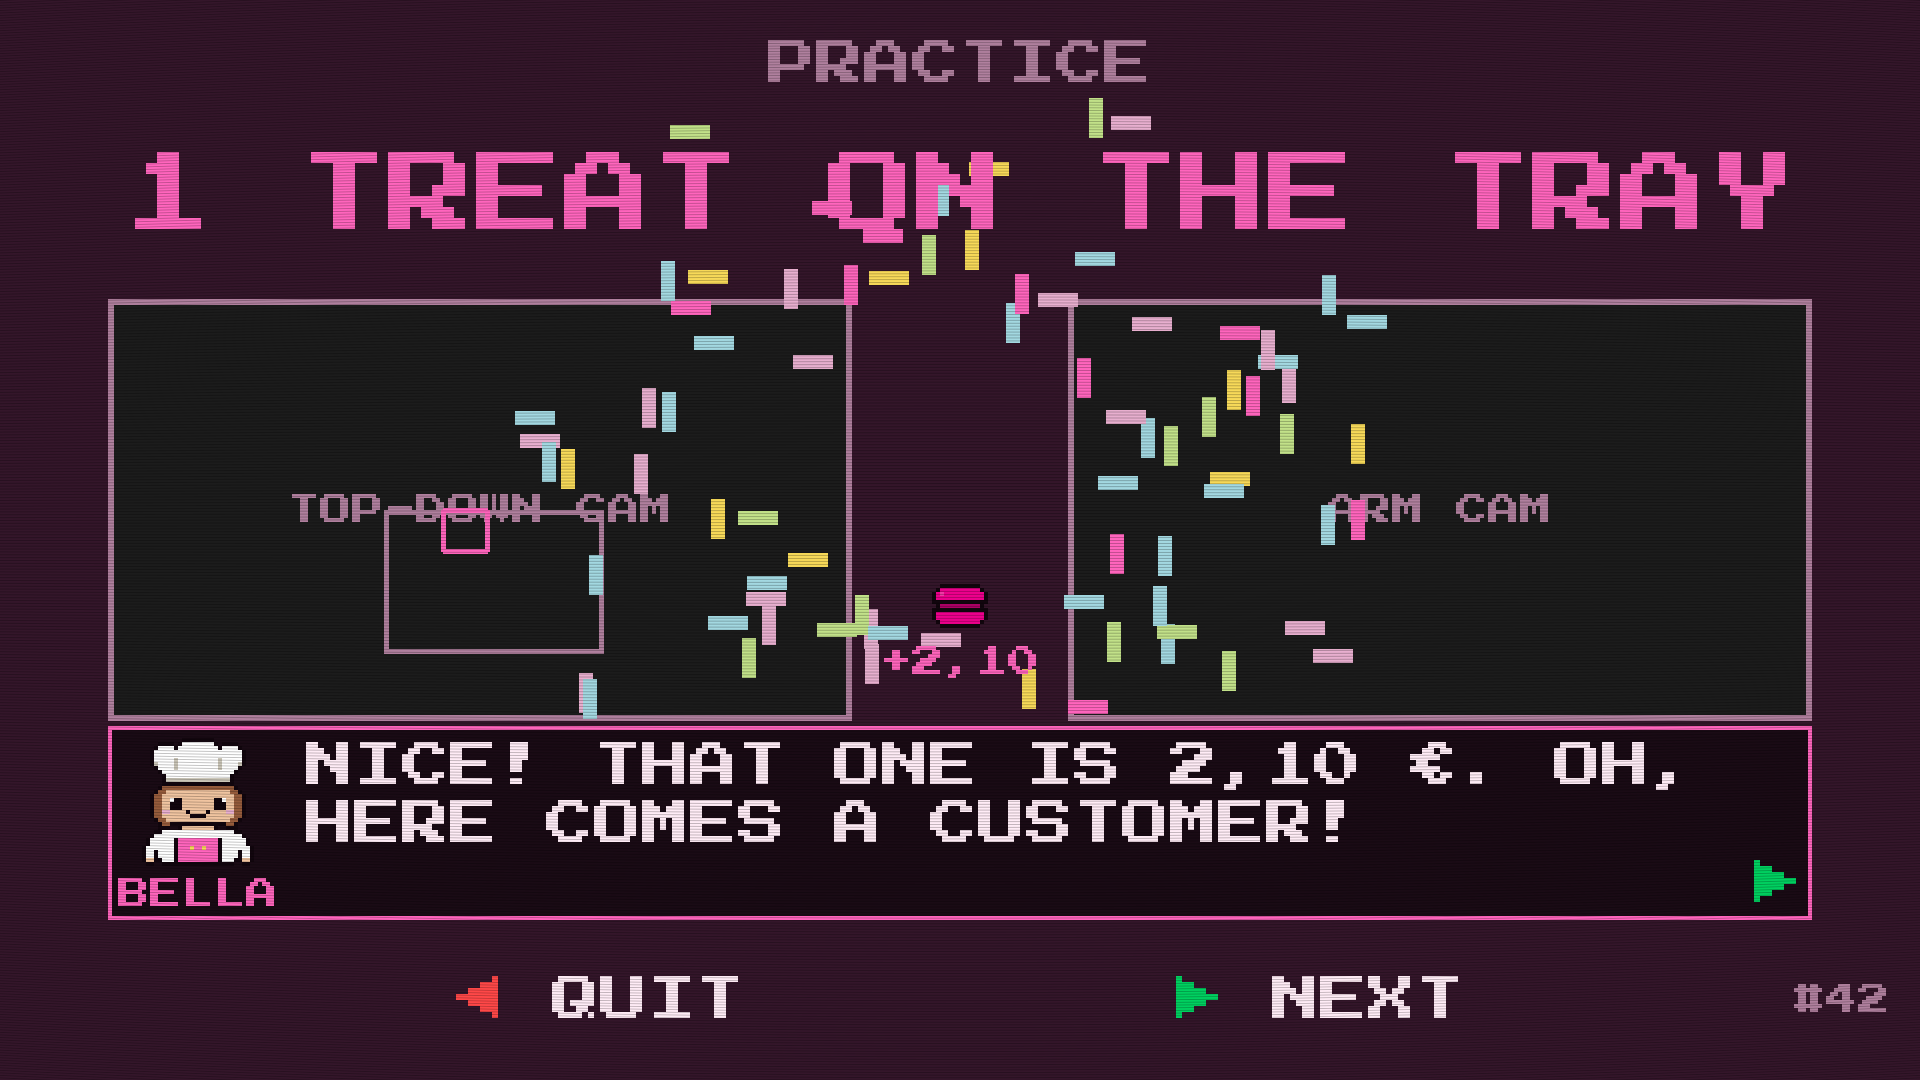
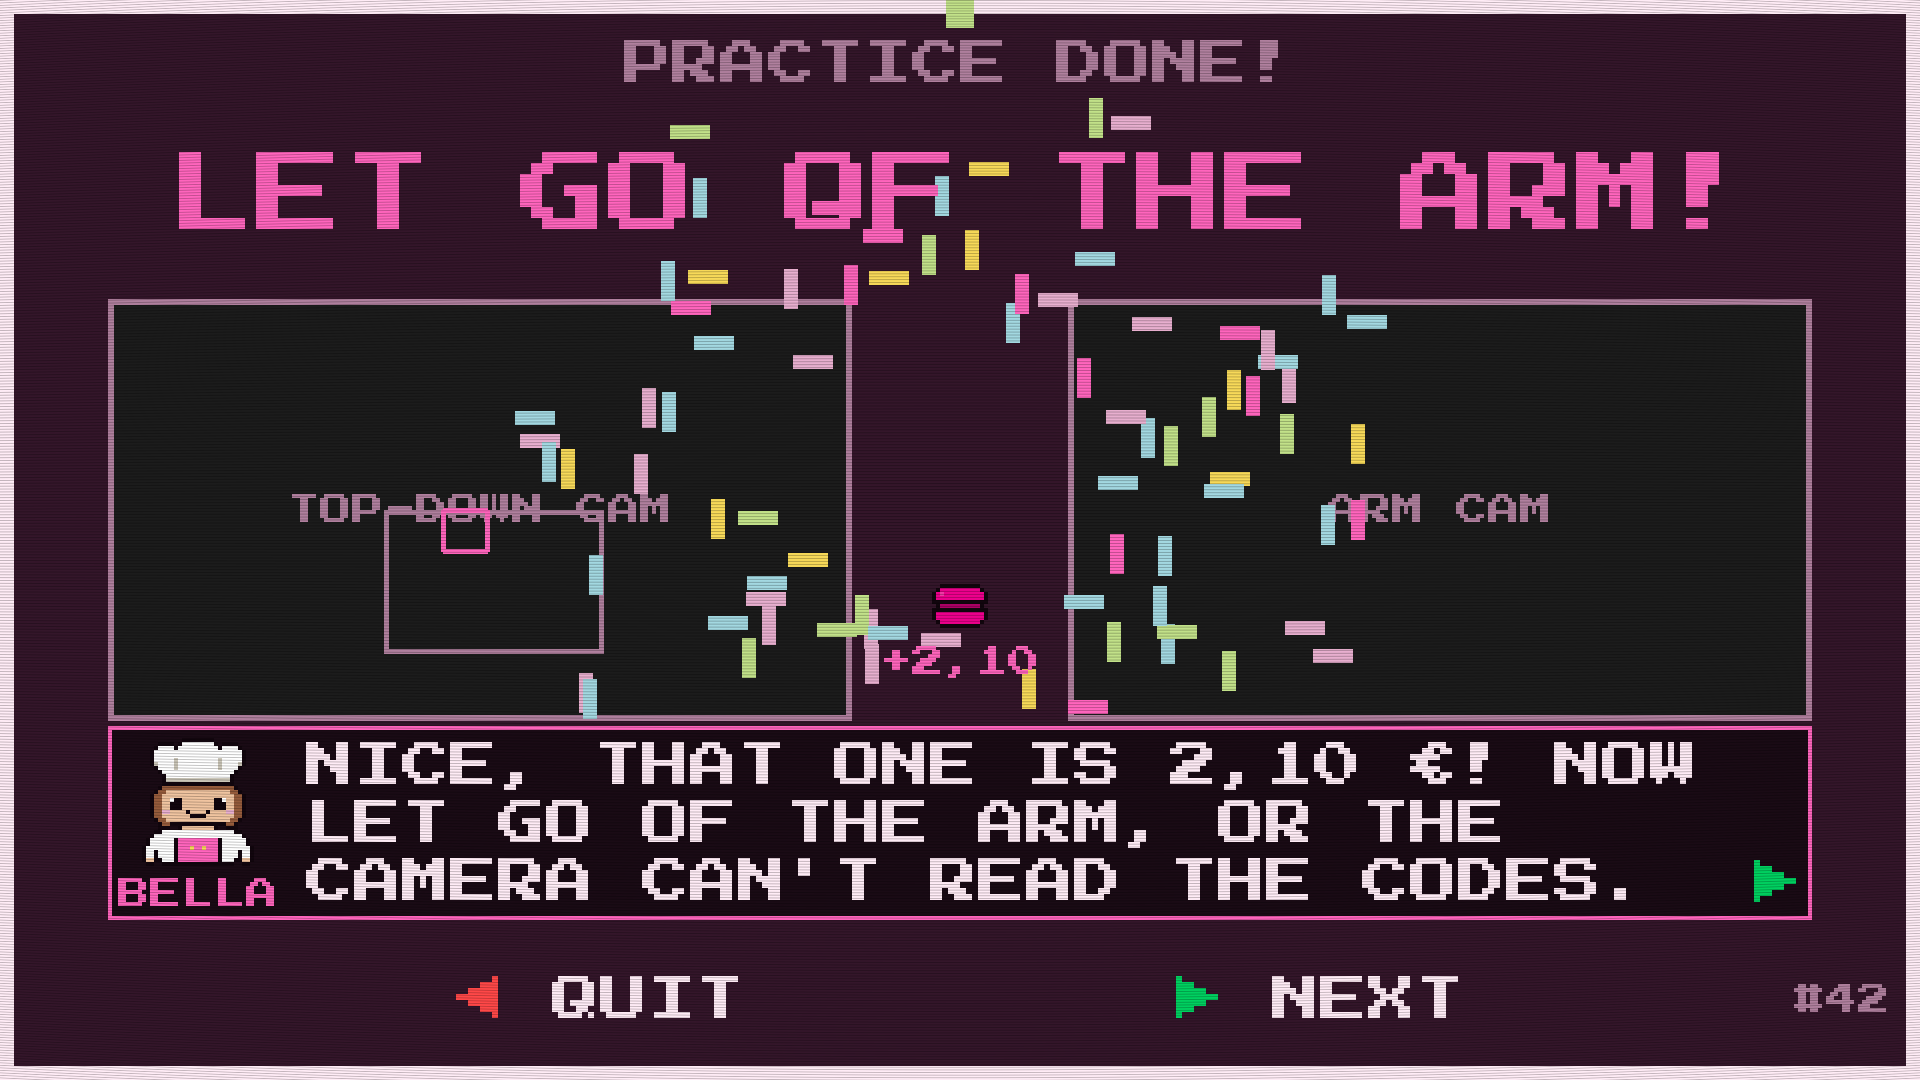
feat: practice says grab the arm, let go, and why -- the end burns down visibly
Floor feedback 29.9.: people didn't take the arm in practice, didn't let go
after it, and the next screen caught them by surprise.
- tutorial header GRAB THE ARM! / NIMM DEN ARM!, Bella names the arm
- practice end: PRACTICE DONE! / LET GO OF THE ARM! big, plus the reason
  (otherwise the camera can't read the codes), and a white fuse burns down
  until Oskar comes
- camera rule before practice says why, compressed

diff --git a/game/themes/sugar_rush.py b/game/themes/sugar_rush.py
@@ -67,13 +67,14 @@ TEXT = {
              "EVERY MOVE.|"
              "EVERY TREAT HAS ITS PRICE. THE BIGGER IT IS, THE MORE IT COSTS.",
         welcome="{name}, YOU'RE BACK! READY TO BEAT YOUR SCORE?",
-        practice="PRACTICE", tut_head="1 TREAT ON THE TRAY",
-        tut="PUT ANY TREAT ON THE TRAY, CODE UP. THEN MOVE THE ARM AWAY FROM THE CAMERA!",
+        practice="PRACTICE", tut_head="GRAB THE ARM!",
+        tut="GRAB THE ARM IN FRONT OF YOU AND PUT ANY TREAT ON THE TRAY, CODE UP!",
         up_next="UP NEXT: PRACTICE ROUND", just_practice="DOESN'T COUNT!",
         practice_n="PRACTICE: {n}",
-        tut_intro="IMPORTANT: THE ARM MUST NOT BLOCK THE CAMERA. MOVE IT AWAY AFTER YOU DROP A TREAT!",
-        tut_done="NICE! THAT ONE IS {price}. OH, HERE COMES A CUSTOMER!",
-        tut_fail="NO WORRIES, THAT WAS JUST PRACTICE! OH, HERE COMES A CUSTOMER!",
+        tut_intro="AFTER EVERY DROP: ARM AWAY FROM THE TRAY, OR THE CAMERA CAN'T READ THE CODES!",
+        tut_done="NICE, THAT ONE IS {price}! NOW LET GO OF THE ARM, OR THE CAMERA CAN'T READ THE CODES.",
+        tut_over="PRACTICE DONE!", let_go="LET GO OF THE ARM!",
+        tut_fail="NO WORRIES, THAT WAS JUST PRACTICE! LET GO OF THE ARM, A CUSTOMER IS COMING.",
         skip="▶ SKIP", skip_ok="▶ AGAIN TO SKIP", quit="◀ QUIT", quit_ok="◀ AGAIN TO QUIT",
         order_head="BUDGET", think="TIME TO PLAN: {n}",
         order="HI! IT'S MY BIRTHDAY. PICK ME TREATS THAT ADD UP TO EXACTLY {goal}!|"
@@ -105,15 +106,16 @@ TEXT = {
              "JEDE SÜßIGKEIT HAT IHREN PREIS. JE GRÖßER, DESTO TEURER.",
         welcome="SCHÖN, DASS DU WIEDER DA BIST, {name}! KNACKST DU DEINEN "
                 "REKORD?",
-        practice="PROBERUNDE", tut_head="1 SÜßIGKEIT AUFLEGEN",
-        tut="LEG EINE SÜßIGKEIT AUFS TABLETT, CODE NACH OBEN. DANN ARM "
-            "WEG VON DER KAMERA!",
+        practice="PROBERUNDE", tut_head="NIMM DEN ARM!",
+        tut="NIMM DEN ARM VOR DIR UND LEG EINE SÜßIGKEIT AUFS TABLETT, "
+            "CODE NACH OBEN!",
         up_next="GLEICH: PROBERUNDE", just_practice="ZÄHLT NICHT!",
         practice_n="PROBERUNDE: {n}",
-        tut_intro="WICHTIG: DER ARM DARF DIE KAMERA NICHT VERDECKEN. NACH "
-                  "DEM ABLEGEN ARM WEG!",
-        tut_done="SUPER! DIE KOSTET {price}. OH, DA KOMMT SCHON KUNDSCHAFT!",
-        tut_fail="KEIN PROBLEM, WAR JA NUR ZUM ÜBEN! OH, DA KOMMT SCHON KUNDSCHAFT!",
+        tut_intro="NACH JEDEM ABLEGEN: ARM WEG VOM TABLETT, SONST SIEHT DIE "
+                  "KAMERA DIE CODES NICHT!",
+        tut_done="SUPER, DIE KOSTET {price}! ARM LOSLASSEN, SONST SIEHT DIE KAMERA DIE CODES NICHT.",
+        tut_over="PROBERUNDE VORBEI!", let_go="ARM LOSLASSEN!",
+        tut_fail="KEIN PROBLEM, WAR NUR ZUM ÜBEN! ARM LOSLASSEN, GLEICH KOMMT KUNDSCHAFT.",
         skip="▶ ÜBERSPRINGEN", skip_ok="▶ NOCHMAL ZUM ÜBERSPRINGEN",
         quit="◀ ABBRECHEN",
         quit_ok="◀ NOCHMAL ZUM ABBRECHEN",

diff --git a/game/scenes.py b/game/scenes.py
@@ -1158,7 +1158,9 @@ class GameScene(SceneBase):
             label = self.t("practice_n", n=max(0, math.ceil(self.tut)))
             value, big = self.t("tut_head"), f["mid"]
         elif self.phase == "tut_done":
-            label, value, big = self.t("practice"), self.t("tut_head"), f["mid"]
+            # The practice is over and the hand has to leave the arm: said
+            # big, not only in the box (29.9., floor).
+            label, value, big = self.t("tut_over"), self.t("let_go"), f["mid"]
         elif self.phase in ("read", "order", "go"):
             label, value = self.t("order_head"), euro(self.target)
         elif self.hit > 0:
@@ -1185,6 +1187,10 @@ class GameScene(SceneBase):
         if self.phase == "tutorial":
             fuse(screen, max(0.0, self.tut / TUT_SECONDS) if TUT_SECONDS else 0.0,
                  ACCENT, self.clock)
+        if self.phase == "tut_done":
+            # Burns down until Oskar comes: the next screen is announced,
+            # not a surprise (29.9., floor). One page, so the page clock is it.
+            fuse(screen, 1 - min(1.0, self.dialog.wait / PAGE_SECONDS), WHITE, self.clock)
         if self.phase == "go":
             # The budget stays on top, the countdown takes the pane area:
             # the one thing to see before the arm starts to count.
@@ -1466,6 +1472,8 @@ if __name__ == "__main__":
         # lands -> tut_done, ▶ -> read, ▶ -> order (think), ▶ -> play.
         # tutorial has exactly one page: ▶ there means skip, not next page.
         assert "|" not in T["tut"]
+        # ... and so has the practice end: its fuse is the page clock
+        assert "|" not in T["tut_done"] + T["tut_fail"]
         _s.tray = {}
         g = GameScene(ctx, 999, "WWW")
         assert g.phase == "tut_intro"
@@ -1495,7 +1503,7 @@ if __name__ == "__main__":
             g.update(0.25)
         assert g.phase == "tut_done" and g.dialog.pages[0] == \
             textwrap.wrap(T["tut_fail"], Dialog.COLS), "the practice times out softly"
-        check(f"{lang} tut_fail", g, panes)
+        check(f"{lang} tut_fail", g, panes + fuse_)
         assert g.next is g, "no button in practice is no walk-away"
         # Nobody presses anything: every reading page turns itself, then
         # the think time runs out -- the round starts without a button.
@@ -1530,7 +1538,7 @@ if __name__ == "__main__":
         _s.tray = {9: [(.3, .3)] * 4}
         g.update(0.05)
         assert g.phase == "tut_done" and g.pop and g.first is not None
-        check(f"{lang} tut_done", g, panes)
+        check(f"{lang} tut_done", g, panes + fuse_)
         read(g.dialog)
         g.handle("right")
         assert g.phase == "read" and g.target > g.total
